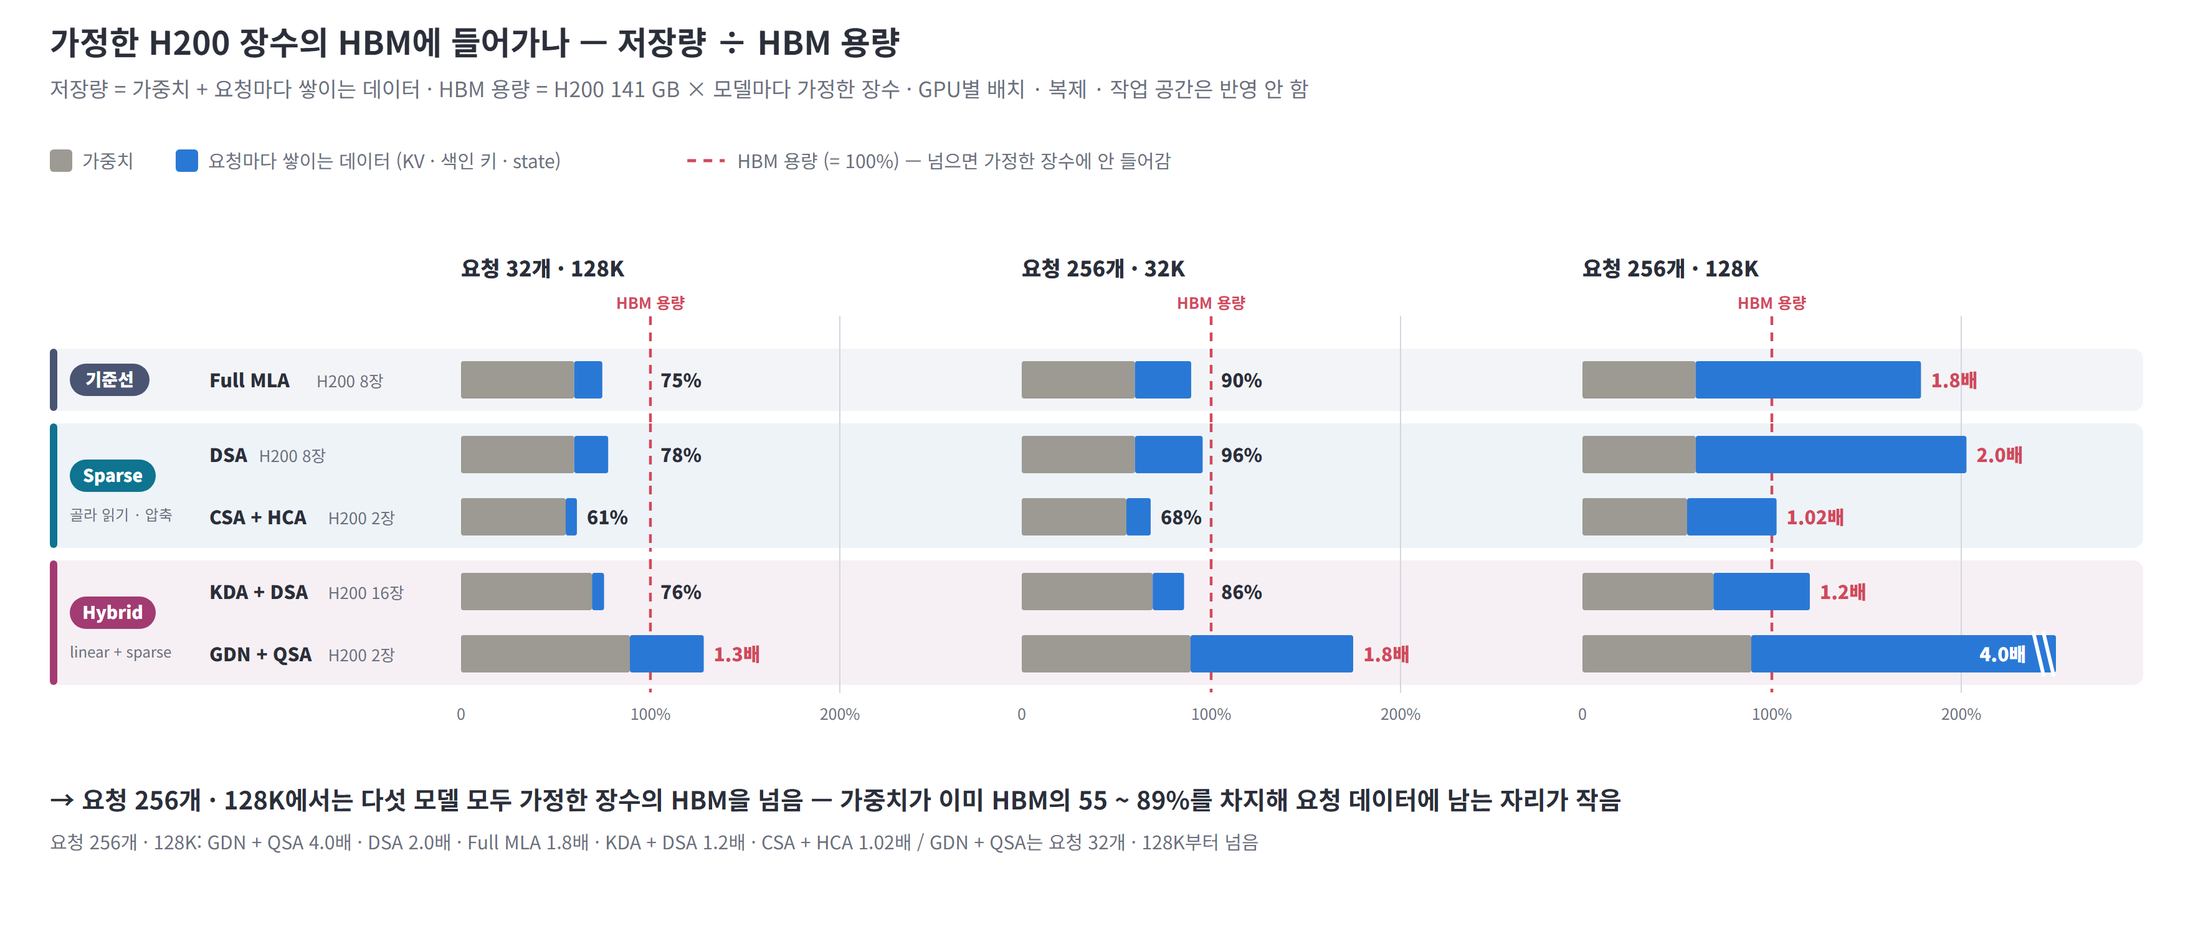
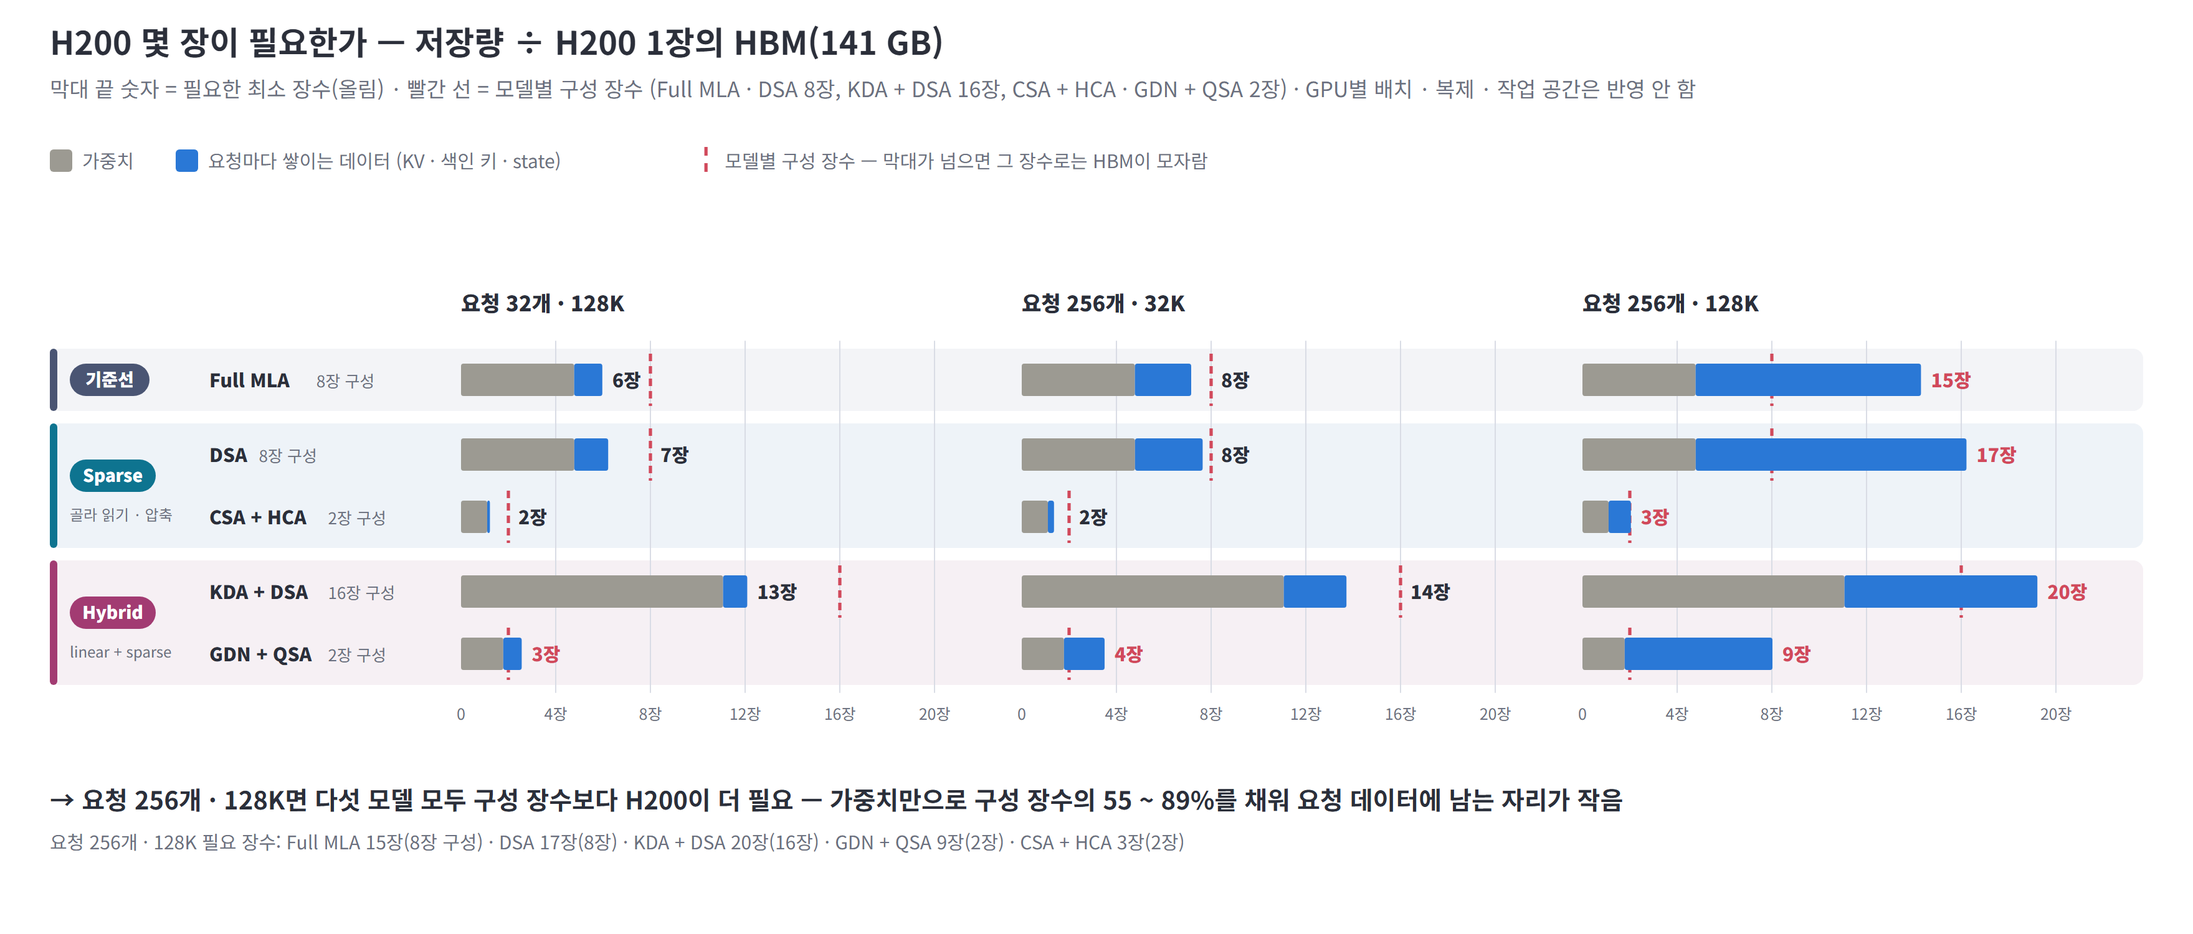
docs(dataflow): state HBM fit as required H200 count instead of "assumed GPUs"
- 4.2 figure now plots the H200 count each model needs (bar end = cards,
  rounded up) with each model's configured count as a red line
  (8 / 8 / 2 / 16 / 2)
- Rewrite 4.2 and every "가정한 장수" mention in both synthesis reports
  with concrete card counts (e.g. Full MLA 8-card setup needs 15)

diff --git a/arch_insight/dataflow-claude/report/make_synthesis_report.py b/arch_insight/dataflow-claude/report/make_synthesis_report.py
@@ -13,7 +13,7 @@ synth-t5-char-model   성격별 보관 · 이동 (모델 전체, 조건 3개)
 synth-s2a-rel         2.1 Full MLA = 100%로 놓은 요청 1개의 저장량 · 읽고 쓰는 양 (128K)
 synth-s2b-ctx         2.2 문맥이 길어질 때 요청 1개가 읽고 쓰는 양 (선형 눈금 · hybrid state 바닥)
 synth-s4a-share       4.1 요청이 늘 때 요청 데이터가 저장 공간 · 읽기에서 차지하는 몫 (50% = 가중치와 같음)
-synth-s4b-hbm         4.2 저장량 ÷ 가정한 H200 장수의 HBM
+synth-s4b-hbm         4.2 필요한 H200 장수 (빨간 선 = 모델별 구성 장수)
 synth-sum             정리 — 특성 → 인사이트 → HW
 수치는 tools/traits.py (약식 뷰어와 같은 규칙).
 """
@@ -479,64 +479,54 @@ HB_CONDS = [(32, 131072, "요청 32개 · 128K"), (256, 32768, "요청 256개 ·
 
 
 def hbm_parts(mid, B, T):
-    """가정한 장수의 HBM 대비 (가중치 몫, 요청 데이터 몫)."""
-    cap = M_(mid)["model"]["deploy"]["n_gpu"] * 141e9
+    """필요한 H200 장수 (가중치 몫, 요청 데이터 몫) — 저장량 ÷ 141 GB."""
     st = tr.by(tr.items(M_(mid), B, T, "model"), "life", "store")
-    return st.get("svc", 0) / cap, (st.get("req", 0) + st.get("step", 0)) / cap
+    return st.get("svc", 0) / 141e9, (st.get("req", 0) + st.get("step", 0)) / 141e9
 
 
 def fig_hbm():
-    """4.2 — 저장량 ÷ 가정한 H200 장수의 HBM (100% 선을 넘으면 안 들어감)."""
+    """4.2 — H200 몇 장이 필요한가 (빨간 선 = 모델별 구성 장수)."""
     RH, FG, TOP = 50, 10, 280
-    P0, PWh, GAP, MAXR = 370, 380, 70, 2.5
-    sc = PWh / MAXR
+    P0, PWh, GAP, MAXN = 370, 380, 70, 20
+    sc = PWh / MAXN
     H = TOP + 5 * RH + 2 * FG
     f = mr.Fig("synth-s4b-hbm", W, H + 200)
-    mr.title(f, "가정한 H200 장수의 HBM에 들어가나 — 저장량 ÷ HBM 용량",
-             "저장량 = 가중치 + 요청마다 쌓이는 데이터 · HBM 용량 = H200 141 GB × 모델마다 가정한 장수 · GPU별 배치 · 복제 · 작업 공간은 반영 안 함")
+    mr.title(f, "H200 몇 장이 필요한가 — 저장량 ÷ H200 1장의 HBM(141 GB)",
+             "막대 끝 숫자 = 필요한 최소 장수(올림) · 빨간 선 = 모델별 구성 장수 (Full MLA · DSA 8장, KDA + DSA 16장, CSA + HCA · GDN + QSA 2장) · GPU별 배치 · 복제 · 작업 공간은 반영 안 함")
     mr.legend(f, [("가중치", mr.GRAY), ("요청마다 쌓이는 데이터 (KV · 색인 키 · state)", mr.BLUE)], 40, 134, 30)
     lx = 40 + 26 + mr.text_w("가중치", 15) + 30 + 26 + mr.text_w("요청마다 쌓이는 데이터 (KV · 색인 키 · state)", 15) + 30
-    dashed(f, lx, 129, lx + 30, 129, OVER, 2.4)
-    f.text(lx + 40, 135, "HBM 용량 (= 100%) — 넘으면 가정한 장수에 안 들어감", 15, color=mr.MUTED)
+    dashed(f, lx + 15, 118, lx + 15, 140, OVER, 2.6)
+    f.text(lx + 30, 135, "모델별 구성 장수 — 막대가 넘으면 그 장수로는 HBM이 모자람", 15, color=mr.MUTED)
     for j, (B, T, lab) in enumerate(HB_CONDS):
         x = P0 + j * (PWh + GAP)
-        f.text(x, TOP - 58, lab, 17, weight=800)
-        f.text(x + sc, TOP - 32, "HBM 용량", 12.5, "middle", 700, OVER)
-        for p, t in ((0, "0"), (1, "100%"), (2, "200%")):
-            f.text(x + p * sc, H + 28, t, 12.5, "middle", color=mr.MUTED)
+        f.text(x, TOP - 30, lab, 17, weight=800)
+        for n in (0, 4, 8, 12, 16, 20):
+            f.text(x + n * sc, H + 28, f"{n}장" if n else "0", 12.5, "middle", color=mr.MUTED)
 
-    def guides(y0, y1):
+    def guides(y0, y1, n):
         for j in range(len(HB_CONDS)):
             x = P0 + j * (PWh + GAP)
-            f.line(x + 2 * sc, y0, x + 2 * sc, y1, "#d3d6e0", 1)
-            dashed(f, x + sc, y0, x + sc, y1, OVER, 2.2)
-    guides(TOP - 26, H + 6)
+            for g in (4, 8, 12, 16, 20):
+                f.line(x + g * sc, y0, x + g * sc, y1, "#d9dce5", 1)
+            if n:
+                dashed(f, x + n * sc, y0 + 4, x + n * sc, y1 - 4, OVER, 2.6, "6 4")
+    guides(TOP - 6, H + 6, 0)
 
     def row(mid, y):
-        guides(y, y + RH)
-        f.text(XN + mr.text_w(NAME[mid], 15) * 1.1 + 12, y + RH / 2 + 6, f"H200 {M_(mid)['model']['deploy']['n_gpu']}장", 13,
-               color=mr.MUTED)
+        n = M_(mid)["model"]["deploy"]["n_gpu"]
+        guides(y, y + RH, n)
+        f.text(XN + mr.text_w(NAME[mid], 15) * 1.1 + 12, y + RH / 2 + 6, f"{n}장 구성", 13, color=mr.MUTED)
         for j, (B, T, _) in enumerate(HB_CONDS):
             x = P0 + j * (PWh + GAP)
             w_, q_ = hbm_parts(mid, B, T)
-            tot = w_ + q_
-            ww = min(w_, MAXR) * sc
-            qw = max(min(tot, MAXR) * sc - ww, 0)
-            f.rect(x, y + 10, ww, RH - 20, mr.GRAY, "none", 2)
-            if qw > 0.5:
-                f.rect(x + ww, y + 10, qw, RH - 20, mr.BLUE, "none", 2)
-            over = tot > 1
-            lab = (f"{tot:.2f}배" if tot < 1.1 else f"{tot:.1f}배") if over else f"{tot:.0%}"
-            if tot > MAXR:   # 잘라 그림 — 끝에 끊김 표시 + 안쪽 숫자
-                xe = x + PWh
-                for d in (-14, -6):
-                    f.line(xe + d - 4, y + 8, xe + d + 4, y + RH - 8, "#ffffff", 3)
-                f.text(xe - 24, y + RH / 2 + 6, lab, 15, "end", 800, "#ffffff")
-            else:
-                lx = x + ww + qw + 8
-                if lx < x + sc + 6 < lx + mr.text_w(lab, 15) * 1.5:
-                    lx = x + sc + 8
-                f.text(lx, y + RH / 2 + 6, lab, 15, weight=800, color=OVER if over else mr.INK)
+            need = math.ceil(w_ + q_)
+            f.rect(x, y + 12, w_ * sc, RH - 24, mr.GRAY, "none", 2)
+            if q_ * sc > 0.5:
+                f.rect(x + w_ * sc, y + 12, q_ * sc, RH - 24, mr.BLUE, "none", 2)
+            lx_ = x + (w_ + q_) * sc + 8
+            if lx_ < x + n * sc + 4 < lx_ + mr.text_w(f"{need}장", 15) * 1.3:
+                lx_ = x + n * sc + 8
+            f.text(lx_, y + RH / 2 + 6, f"{need}장", 15, weight=800, color=OVER if need > n else mr.INK)
     fam_rows(f, TOP, RH, FG, W - 40, row)
     mr.takeaway(f, H + 100, *TAKE["s4b"])
     mr.save(f)
@@ -559,8 +549,8 @@ TAKE = {
             "문맥 8K: KDA + DSA가 Full MLA의 3배 · 약 25K에서 같아짐 · 128K: Full MLA의 26% / DSA · CSA + HCA는 색인 키 읽기만큼만 천천히 늘어남"),
     "s4a": ("골라 읽는 모델은 요청 데이터가 저장 공간을 먼저 채우고, 읽기에서는 훨씬 늦게 커짐 — 두 선이 벌어진 구간에서는 저장된 KV 대부분이 그 스텝에 읽히지 않음",
             "가중치를 넘는 요청 수 (저장 → 읽기): Full MLA 약 130개로 같음 · DSA 108 → 592 · GDN + QSA 74 → 656 · KDA + DSA 348 → 1,137 · CSA + HCA 300 → 1,372"),
-    "s4b": ("요청 256개 · 128K에서는 다섯 모델 모두 가정한 장수의 HBM을 넘음 — 가중치가 이미 HBM의 55 ~ 89%를 차지해 요청 데이터에 남는 자리가 작음",
-            "요청 256개 · 128K: GDN + QSA 4.0배 · DSA 2.0배 · Full MLA 1.8배 · KDA + DSA 1.2배 · CSA + HCA 1.02배 / GDN + QSA는 요청 32개 · 128K부터 넘음"),
+    "s4b": ("요청 256개 · 128K면 다섯 모델 모두 구성 장수보다 H200이 더 필요 — 가중치만으로 구성 장수의 55 ~ 89%를 채워 요청 데이터에 남는 자리가 작음",
+            "요청 256개 · 128K 필요 장수: Full MLA 15장(8장 구성) · DSA 17장(8장) · KDA + DSA 20장(16장) · GDN + QSA 9장(2장) · CSA + HCA 3장(2장)"),
 }
 
 

diff --git a/arch_insight/dataflow-claude/report/synthesis-traits.md b/arch_insight/dataflow-claude/report/synthesis-traits.md
@@ -101,13 +101,13 @@
 - **같은 조건에서 DSA는 Full MLA보다** 모델 전체 읽기·쓰기량이 절반으로 줄지만, 저장량은 13% 늘어남
 - → 요청이 많고 문맥이 길수록 attention 쪽 개선으로 줄일 몫이 커지지만, 가장 큰 몫은 여전히 MoE 가중치
 
-<sub>요청 256개 · 128K는 다섯 모델 모두 가정한 H200 장수의 HBM을 넘는 조건(4.2). 같은 입력에서의 바이트 비교로만 읽음</sub>
+<sub>요청 256개 · 128K는 다섯 모델 모두 구성 장수로는 HBM이 모자라는 조건 (예: Full MLA는 8장 구성인데 15장 필요 · 4.2). 같은 입력에서의 바이트 비교로만 읽음</sub>
 
 ---
 
-## 4. 요청이 늘 때 — 저장 공간이 먼저 차고, HBM을 넘는 조건
+## 4. 요청이 늘 때 — 저장 공간이 먼저 차고, H200이 몇 장 필요해지나
 
-> **읽는 법:** 4.1은 요청 수를 늘리며 요청 데이터가 '저장 공간'과 '읽기'에서 차지하는 몫을 비교. 4.2는 가정한 H200 장수의 HBM에 다 들어가는지 확인
+> **읽는 법:** 4.1은 요청 수를 늘리며 요청 데이터가 '저장 공간'과 '읽기'에서 차지하는 몫을 비교. 4.2는 H200이 몇 장 필요한지 확인
 
 ### 4.1 골라 읽는 모델은 요청 데이터가 저장 공간을 먼저 채우고, 읽기에서는 훨씬 늦게 커짐
 
@@ -121,16 +121,17 @@
 
 ---
 
-### 4.2 요청 256개 · 128K에서는 다섯 모델 모두 가정한 장수의 HBM을 넘음
+### 4.2 H200 몇 장이 필요한가 — 요청 256개 · 128K면 Full MLA 15장, DSA 17장
 
-![가정한 H200 장수의 HBM 대비 저장량](figures/synth-s4b-hbm.png)
+![조건별로 필요한 H200 장수](figures/synth-s4b-hbm.png)
 
-- **가중치가 이미 자리를 많이 차지:** 가정한 장수의 HBM 중 55 ~ 89%가 가중치. 요청 데이터에 남는 자리가 작음
-- **요청 256개 · 128K:** 다섯 모델 모두 넘음 — GDN + QSA 4.0배 · DSA 2.0배 · Full MLA 1.8배 · KDA + DSA 1.2배 · CSA + HCA 1.02배
-- **GDN + QSA:** 가중치가 작아 2장을 가정했지만, 가중치가 그 89%를 차지해 요청 32개 · 128K부터 넘음
-- **DSA:** 색인 키를 더 저장해서 Full MLA보다 더 많이 넘음 (2.0배 vs 1.8배)
+- **모델별 구성:** Full MLA · DSA는 H200 8장, KDA + DSA는 16장, CSA + HCA · GDN + QSA는 2장으로 놓고 비교 (빨간 선)
+- **요청 256개 · 128K:** 다섯 모델 모두 구성 장수로는 모자람 — Full MLA 15장(8장 구성), DSA 17장(8장), KDA + DSA 20장(16장), GDN + QSA 9장(2장), CSA + HCA 3장(2장)
+- **가중치만으로도 자리를 많이 차지:** 가중치만 담는 데 Full MLA · DSA 약 4.8장, KDA + DSA 약 11장, GDN + QSA 약 1.8장, CSA + HCA 약 1.1장 — 구성 장수의 55 ~ 89%
+- **GDN + QSA:** 2장 구성이면 요청 32개 · 128K부터 모자람 (3장 필요)
+- **DSA:** 색인 키를 더 저장해서 Full MLA보다 2장 더 필요 (17장 vs 15장)
 
-<sub>저장량 ÷ (H200 141 GB × 가정한 장수). GPU별 배치(TP · EP · DP), 복제, 작업 공간은 반영 안 함. 필요한 최소 장수 표는 부록 G</sub>
+<sub>필요한 장수 = 저장량 ÷ H200 1장의 HBM 141 GB (올림). GPU별 배치(TP · EP · DP), 복제, 작업 공간은 반영 안 함. 다른 조건의 장수는 부록 G</sub>
 
 ---
 
@@ -147,7 +148,7 @@
 | **KV 압축 · 저정밀** | 전부 읽는 KV가 모델 전체 읽기·쓰기량에서 차지하는 비중 | 28% → **66%** | — | (이미 압축) | — | — | Full MLA — 요청이 많고 문맥이 길 때 |
 | **가중치 읽기 · 배치** (2.5 · 기준 보고서 범위 밖) | MoE 가중치가 모델 전체 읽기·쓰기량에서 차지하는 비중 | 69% → 32% | 88% → 66% | 88% → **79%** | 85% → 77% | 85% → 69% | 전 모델 — 요청이 적거나 중간일 때 가장 큰 몫 |
 
-<sub>비중 칸 = 요청 32개 · 128K → 요청 256개 · 128K(다섯 모델 모두 가정 장수 초과). 그 대응으로 줄일 수 있는 몫의 상한이며, 실제 이득은 고른 KV의 재사용률, 연산 능력, 전송 비용에 달림. SRAM 증설이나 커널 합치기가 줄이는 커널 사이 임시값은 모델 전체 읽기·쓰기량의 3% 이하라 표에서 뺌(부록 B). 키 1바이트당 계산 횟수는 저장 형식이 바뀌면 달라짐(CSA + HCA 색인 키를 MXFP4 68 B로 두면 약 241번)</sub>
+<sub>비중 칸 = 요청 32개 · 128K → 요청 256개 · 128K(다섯 모델 모두 구성 장수로는 HBM이 모자람 · 4.2). 그 대응으로 줄일 수 있는 몫의 상한이며, 실제 이득은 고른 KV의 재사용률, 연산 능력, 전송 비용에 달림. SRAM 증설이나 커널 합치기가 줄이는 커널 사이 임시값은 모델 전체 읽기·쓰기량의 3% 이하라 표에서 뺌(부록 B). 키 1바이트당 계산 횟수는 저장 형식이 바뀌면 달라짐(CSA + HCA 색인 키를 MXFP4 68 B로 두면 약 241번)</sub>
 
 - **모델별로 먼저 볼 것:** Full MLA는 KV 압축 · 저정밀, DSA는 계층형 KV와 메모리 근처 선택, GDN + QSA는 계층형 KV와 state PIM, KDA + DSA는 state PIM, CSA + HCA는 가중치 쪽
 - **요청이 많아지면 계층형 KV는 모두에게 의미가 커짐:** KDA + DSA와 CSA + HCA도 요청 256개 · 128K에서는 저장량의 3분의 1 이상이 골라 읽는 KV
@@ -230,7 +231,7 @@
 | state 왕복 약 230 MB, 32K에서 읽기·쓰기의 75% (1.6) | 문맥과 상관없고 요청 수에 비례 → 요청 256개 · 8K에서 모델 전체 읽기·쓰기의 13%(KDA + DSA) · 18%(GDN + QSA) | **요청 수**를 더하고 모델 전체 기준 비중으로 (2장 · 5장) |
 | 압축형(CSA + HCA)은 Full 대비 읽기 1.5% · 저장 12% (1.3 주석) | 같은 FP8 형식의 Full MLA 대비 요청 하나의 읽기·쓰기 98% 감소 · 저장 90% 감소 · 넘는 요청 수 300 / 1,372개 | 압축이 저장과 읽기를 **함께** 줄이는 유일한 구조 (2장) |
 | KV는 용량 부담, 색인 키 · state는 반복 접근 (1.7) | 세 기준(종류 · 수명 · 읽고 쓰는 방식)으로 모델 5개를 같은 분류에 놓음 | 모델마다 걸리는 분류의 **조합**이 다름 (부록 A · 5장) |
-| — | 요청 256개 · 128K는 다섯 모델 모두 가정 장수 초과 | 읽기·쓰기를 비교하기 전에 **HBM에 들어가는지부터** 판정 (4.2 · 부록 G) |
+| — | 요청 256개 · 128K는 다섯 모델 모두 구성 장수로는 HBM이 모자람 (Full MLA 8장 구성에 15장 필요) | 읽기·쓰기를 비교하기 전에 **HBM에 들어가는지부터** 판정 (4.2 · 부록 G) |
 
 ### D. 모델 크기를 덜어 낸 값
 
@@ -265,9 +266,9 @@
 - **용량 초과 조건:** 읽기·쓰기량은 같은 입력 조건의 바이트 비교. 시간 비교는 GPU별 배치가 필요
 - **제외:** MTP, 잔차, 정규화 값, GPU 간 통신, 가중치 복제(DP attention), GDN + QSA의 n-gram 표(host 102 GB), KDA + DSA의 DSA 층 중간값
 
-### G. 가정한 H200 장수 — 필요한 최소 장수
+### G. 조건별로 필요한 H200 장수
 
-| 모델 (배치 가정) | 요청 1개 | 요청 32개 · 128K | 요청 256개 · 8K | 요청 256개 · 32K | 요청 256개 · 128K |
+| 모델 (구성 장수) | 요청 1개 | 요청 32개 · 128K | 요청 256개 · 8K | 요청 256개 · 32K | 요청 256개 · 128K |
 |---|---|---|---|---|---|
 | Full MLA (8장) | 5장 | 6장 | 6장 | 8장 | **15장** |
 | DSA (8장) | 5장 | 7장 | 6장 | 8장 | **17장** |
@@ -275,4 +276,4 @@
 | KDA + DSA (16장) | 12장 | 13장 | 13장 | 14장 | **20장** |
 | GDN + QSA (2장) | 2장 | **3장** | **3장** | **4장** | **9장** |
 
-<sub>H200 141 GB에 저장량 합계를 균등히 나눈 최소 장수(올림). 굵게 = 가정한 장수 초과. 4.2 그림의 배수는 올림 전 값(저장량 ÷ 가정한 장수의 HBM)</sub>
+<sub>저장량 합계 ÷ H200 1장의 HBM 141 GB (올림). 굵게 = 구성 장수보다 많이 필요</sub>

diff --git a/arch_insight/dataflow-claude/report/synthesis-compute.md b/arch_insight/dataflow-claude/report/synthesis-compute.md
@@ -41,7 +41,7 @@
 - 이 두 과정 때문에 sparse 층은 차례로 기다리는 단계가 2개 늘어남 — DSA는 모델 전체로 33% 증가
 - 실제 비용은 커널을 직접 재 봐야 알 수 있음
 
-<sub>요청 256개 · 128K는 다섯 모델 모두 가정한 H200 장수의 메모리를 넘는 조건. 실제 배포 지연이 아니라 같은 입력에서의 비교로만 읽음</sub>
+<sub>요청 256개 · 128K는 다섯 모델 모두 구성 장수로는 HBM이 모자라는 조건 (예: Full MLA는 8장 구성인데 15장 필요 · 메모리 종합 4.2). 실제 배포 지연이 아니라 같은 입력에서의 비교로만 읽음</sub>
 
 **구성** — 1장 대표 비교(계산량 vs 시간) → 2장 이유(계산이 어디서 늘어나나, 계산기가 일하는 시간) → 3장 색인 뒤 비용(top-k, gather, 단계 수) → 4장 HW 검토
 
@@ -61,7 +61,7 @@
 - **hybrid는 계산량부터 가중치 쪽:** 토큰 1개 · 128K 기준 계산량의 85%(KDA + DSA), 92%(GDN + QSA)가 가중치 행렬곱
 - **요청 1개일 때:** 다섯 모델 모두 시간 대부분이 가중치 읽기. KDA + DSA는 BF16 attention 투영 하나가 시간의 절반
 
-<sub>요청 256개 · 128K는 다섯 모델 모두 가정한 H200 장수의 메모리를 넘는 조건 — 구성 비교로만 읽음</sub>
+<sub>요청 256개 · 128K는 다섯 모델 모두 구성 장수로는 HBM이 모자라는 조건 — 구성 비교로만 읽음</sub>
 
 ---
 
@@ -143,7 +143,7 @@
 | **2.5 attention 연산 분리** — 계산이 병목인 attention을 따로 처리 | attention이 모델 전체 시간에서 차지하는 비중 | 44% → **80%** | 1.1% → 4.3% | 0.9% → 3.5% | 0.2% → 0.8% | 1.2% → 3.7% | Full MLA만 — 요청이 많고 문맥이 길 때. sparse와 hybrid는 5% 미만 |
 | **가중치 읽기 · 배치** (기준 보고서 범위 밖) | MoE 가중치 읽기가 모델 전체 시간에서 차지하는 비중 | 54% → 19% | 88% → 65% | 88% → **79%** | 85% → 76% | 85% → 69% | 전 모델 — 요청이 적거나 중간일 때 가장 큰 몫 |
 
-<sub>비중 칸 = 요청 32개 · 128K → 요청 256개 · 128K(다섯 모델 모두 가정 장수의 메모리 초과). 그 대응으로 줄일 수 있는 이론 시간의 상한이며, 실제 이득은 연산기 성능, 전송 비용, 커널을 합칠 수 있는지에 달림. 메모리 쪽 연산기 크기 = 1바이트당 계산 횟수 × 메모리 쪽 읽기 속도(예: 121번 × 1 TB/s = 121 TFLOP/s)</sub>
+<sub>비중 칸 = 요청 32개 · 128K → 요청 256개 · 128K(다섯 모델 모두 구성 장수로는 HBM이 모자람). 그 대응으로 줄일 수 있는 이론 시간의 상한이며, 실제 이득은 연산기 성능, 전송 비용, 커널을 합칠 수 있는지에 달림. 메모리 쪽 연산기 크기 = 1바이트당 계산 횟수 × 메모리 쪽 읽기 속도(예: 121번 × 1 TB/s = 121 TFLOP/s)</sub>
 
 - **모델별로 먼저 볼 것:** Full MLA는 attention 연산 분리, DSA는 메모리 근처 색인 계산, GDN + QSA는 state PIM, KDA + DSA는 state 다음 색인, CSA + HCA는 가중치 쪽
 - **상한:** sparse와 hybrid에서 가장 큰 몫은 여전히 MoE 가중치 읽기 — 요청 256개 · 128K에서도 시간의 65 ~ 79%
@@ -220,7 +220,7 @@
 ### D. 비교의 한계
 
 - **이론 시간:** H200 1장 환산 합. 실행 지연, 동기화, gather 비효율, top-k 처리 속도는 빠짐 (top-k와 gather는 바이트 ÷ 대역폭만)
-- **메모리 초과 조건:** 요청 256개 · 128K는 다섯 모델 모두 가정 장수의 메모리를 넘음(메모리 종합 4.2 · 부록 G) — 같은 입력의 구성 비교로만 읽음
+- **메모리 초과 조건:** 요청 256개 · 128K는 다섯 모델 모두 구성 장수로는 HBM이 모자람 (Full MLA 8장 구성에 15장 필요 · 메모리 종합 4.2 · 부록 G) — 같은 입력의 구성 비교로만 읽음
 - **그린 층 밖 연산:** KDA + DSA의 DSA 24층, GDN + QSA의 GDN 36층, CSA + HCA의 HCA · 창 층, MoE는 `ops.yaml` 식 (model.yaml과 같은 형식 가정). 단계 수는 같은 구조 모델의 배치로 대신 셈(KDA + DSA의 DSA 층 ← DSA, GDN 층 ← Qwen3.6, HCA ← CSA에서 색인 · top-k를 뺀 것)
 - **정밀도:** CSA + HCA와 KDA + DSA의 FP4 · MXFP4 expert는 H200에 FP4 Tensor core가 없어 BF16로 풀어 계산한다고 가정
 - **MoE:** 균등 · 독립 라우팅 기댓값 (메모리 종합과 같음)
